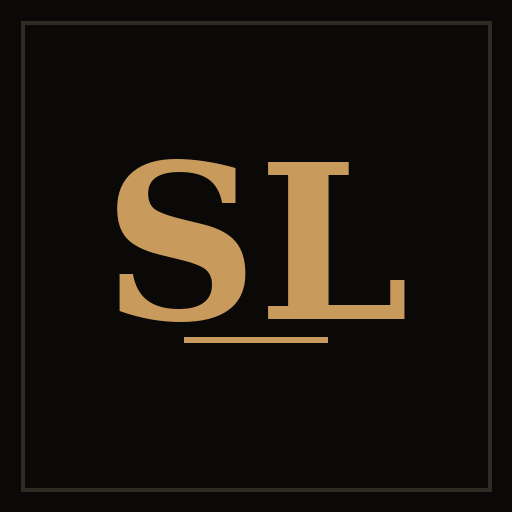
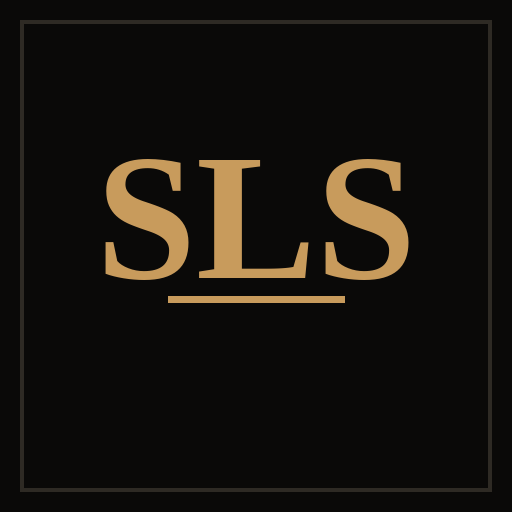
changing the name os application--update 37

Changed region(s): [[0.1875, 0.3125, 0.8125, 0.6875], [0.0312, 0.0312, 0.9375, 0.9375]]

diff --git a/index.html b/index.html
@@ -3,14 +3,14 @@
 <head>
 <meta charset="UTF-8">
 <meta name="viewport" content="width=device-width, initial-scale=1.0, viewport-fit=cover">
-<title>Sante Life Science</title>
+<title>SLS</title>
 
 <link rel="manifest" href="./manifest.json">
 <meta name="theme-color" content="#0A0908">
 <meta name="mobile-web-app-capable" content="yes">
 <meta name="apple-mobile-web-app-capable" content="yes">
 <meta name="apple-mobile-web-app-status-bar-style" content="black-translucent">
-<meta name="apple-mobile-web-app-title" content="Sante Kit Desk">
+<meta name="apple-mobile-web-app-title" content="SLS">
 <link rel="apple-touch-icon" href="./icons/icon-192.png">
 <link rel="icon" href="./icons/icon-192.png">
 
@@ -193,7 +193,7 @@
 <!-- ============ LOGIN ============ -->
 <div id="login-screen">
   <div class="login-card">
-    <div class="brand-mark">Sante Life Science</div>
+    <div class="brand-mark">SLS</div>
     <div class="brand-title">Kit &amp; Ledger Desk</div>
     <div class="brand-sub" id="login-sub">Instrument kit booking, ordering, and doctor accounts.</div>
 
@@ -272,7 +272,7 @@
 <div id="app">
   <div class="topbar">
     <div class="brand">
-      <div class="brand-title serif">Sante Life Science</div>
+      <div class="brand-title serif">SLS</div>
       <div class="tag">Kit Desk</div>
     </div>
     <div class="who">
@@ -658,7 +658,7 @@ async function registerBiometric(label){
   const cred = await navigator.credentials.create({
     publicKey: {
       challenge,
-      rp: { name: "Sante Life Science" },
+      rp: { name: "SLS" },
       user: { id: userId, name: label, displayName: label },
       pubKeyCredParams: [{alg:-7, type:"public-key"}, {alg:-257, type:"public-key"}],
       authenticatorSelection: { authenticatorAttachment: "platform", userVerification: "required" },
@@ -860,7 +860,7 @@ function logout(){
 }
 function refreshWho(){
   if(SESSION.role==='admin'){
-    document.getElementById('who-name').textContent='Sante Life Science Admin';
+    document.getElementById('who-name').textContent='SLS Admin';
     document.getElementById('who-role').textContent='Admin';
   } else {
     const doc = DB.doctors[SESSION.doctorId];
@@ -2639,7 +2639,7 @@ async function downloadReportPdf(doctorId, month){
   if(logo){ try{ pdf.addImage(logo, 'PNG', 40, y-6, 36, 36); }catch(e){} }
   const textX = logo ? 86 : 40;
   pdf.setFont('times','bold'); pdf.setFontSize(20); pdf.setTextColor(30,24,18);
-  pdf.text('Sante Life Science', textX, y+14);
+  pdf.text('SLS', textX, y+14);
   pdf.setFont('helvetica','normal'); pdf.setFontSize(9); pdf.setTextColor(140,110,70);
   pdf.text('KIT DESK', textX, y+28);
   pdf.setTextColor(0);
@@ -2678,7 +2678,7 @@ async function downloadReportPdf(doctorId, month){
     margin:{left:40, right:40},
     didDrawPage: (data) => {
       pdf.setFontSize(8); pdf.setTextColor(150);
-      pdf.text(`Sante Life Science — ${d.name} — page ${pdf.internal.getNumberOfPages()}`, 40, pdf.internal.pageSize.getHeight()-20);
+      pdf.text(`SLS — ${d.name} — page ${pdf.internal.getNumberOfPages()}`, 40, pdf.internal.pageSize.getHeight()-20);
     }
   });
   pdf.save(`${d.name.replace(/\s+/g,'_')}_${month||'all-time'}_statement.pdf`);
